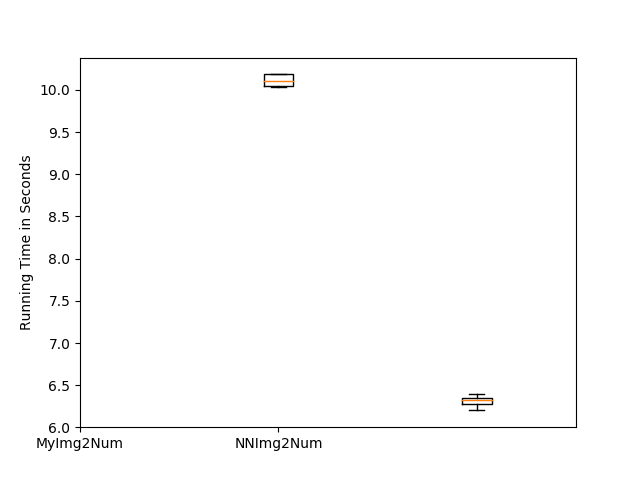
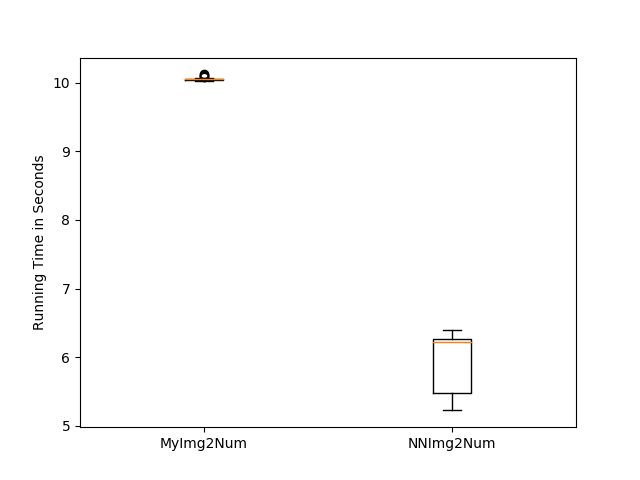
update

diff --git a/hwk4/nn_img2num.py b/hwk4/nn_img2num.py
@@ -6,11 +6,12 @@ from torchvision import datasets, transforms
 from time import time
 from torch.autograd import Variable
 import matplotlib.pyplot as plt
-
+plt.ioff()
 class NNImg2Num:
+
     def __init__(self):
         self.train_batch_size = 60
-        self.epoch = 5
+        self.epoch = 30
         self.labels = 10
         self.rate = 30 
         self.input_size = 28 * 28
@@ -41,7 +42,13 @@ class NNImg2Num:
         self.optimizer = torch.optim.SGD(self.model.parameters(), lr=self.rate)
         self.loss_function = nn.MSELoss()
     
-    def train(self):
+    def forward(self, img):
+        
+        output = self.model.forward(img.view(1, self.input_size))
+        _, result = torch.max(output, 1)
+        return result
+
+    def train(self, plot=False):
         print('training')
         def onehot_training(target, batch_size):
                 output = torch.zeros(batch_size, self.labels)
@@ -101,7 +108,10 @@ class NNImg2Num:
             train_loss_list.append(train_loss)
             test_loss_list.append(test_loss)
             speed.append(e-s)
+        if plot == True:
+            return speed, train_loss_list, test_loss_list, acc_list
 
+'''
         plt.plot(range(self.epoch), acc_list, 'r|--', label='Accuracy')
         plt.plot(range(self.epoch), train_loss_list, 'b*--', label='Training Loss')
         plt.plot(range(self.epoch), test_loss_list, 'yo--', label='Test Loss')
@@ -110,9 +120,5 @@ class NNImg2Num:
         plt.title('Library Neural Network Evaluation')
         plt.savefig('nn_compare.png')
         plt.clf()
-        return speed
-    def forward(self, img):
-        
-        output = self.model.forward(img.view(1, self.input_size))
-        _, result = torch.max(output, 1)
-        return result
+    '''
+    

diff --git a/hwk4/my_img2num.py b/hwk4/my_img2num.py
@@ -4,11 +4,11 @@ import torch
 from torchvision import datasets, transforms
 from time import time
 import matplotlib.pyplot as plt
-
+plt.ioff()
 class MyImg2Num:
     def __init__(self):
         self.train_batch_size = 60
-        self.epoch = 5
+        self.epoch = 30
         self.labels = 10
         self.rate = 0.1 
         self.input_size = 28 * 28
@@ -31,7 +31,7 @@ class MyImg2Num:
         # output labels are 10 [0 - 9]
         self.nn = NeuralNetwork([self.input_size, 512, 256, 64, self.labels])
 
-    def train(self):
+    def train(self, plot=False):
         print('training')
         def onehot_training(target, batch_size):
                 output = torch.zeros(batch_size, self.labels)
@@ -87,6 +87,16 @@ class MyImg2Num:
             train_loss_list.append(train_loss)
             test_loss_list.append(test_loss)
             speed.append(e-s)
+        if plot:
+            return speed, train_loss_list, test_loss_list, acc_list
+        
+
+    def forward(self, img):
+        
+        output = self.nn.forward(img.view(1, self.input_size))
+        _, result = torch.max(output, 1)
+        return result      
+        '''
         plt.plot(range(self.epoch), acc_list, 'r|--', label='Accuracy')
         plt.plot(range(self.epoch), train_loss_list, 'b*--', label='Training Loss')
         plt.plot(range(self.epoch), test_loss_list, 'yo--', label='Test Loss')
@@ -95,11 +105,5 @@ class MyImg2Num:
         plt.title('My Neural Network Evaluation')
         plt.savefig('my_compare.png')
         plt.clf()
-        return speed
+        '''
         
-
-    def forward(self, img):
-        
-        output = self.nn.forward(img.view(1, self.input_size))
-        _, result = torch.max(output, 1)
-        return result

diff --git a/hwk4/test.py b/hwk4/test.py
@@ -1,17 +1,35 @@
 from my_img2num import MyImg2Num
-
 import matplotlib.pyplot as plt
 from nn_img2num import NNImg2Num
+plt.ioff()
 print('running self nn')
 my_img_2num = MyImg2Num()
-my_time = my_img_2num.train()
+my_time,my_train_loss, my_test_loss, my_accuracy = my_img_2num.train(True)
 print(my_time)
 print('running library nn')
 nn_img = NNImg2Num()
-nn_time = nn_img.train()
+nn_time, nn_train_loss, nn_test_loss, nn_accuracy = nn_img.train(True)
 print(nn_time)
 data = [my_time, nn_time]
 plt.boxplot(data)
-plt.xticks(range(2), ['MyImg2Num', 'NNImg2Num'])
+plt.xticks(range(1, 3), ['MyImg2Num', 'NNImg2Num'])
 plt.ylabel('Running Time in Seconds')
 plt.savefig('efficiency.png')
+plt.clf()
+
+plt.plot(range(30), nn_accuracy, 'r*--', label='Accuracy of torch nn')
+plt.plot(range(30), my_accuracy, 'b|--', label='Accuracy of my nn')
+plt.xlabel('Epoch')
+plt.ylabel('Accuracy')
+plt.savefig('accuracy.png')
+plt.clf()
+
+plt.plot(range(30), my_train_loss, 'r*--', label='Training loss of my nn')
+plt.plot(range(30), nn_train_loss, 'b|--', label='Training loss of torch nn')
+
+plt.plot(range(30), my_test_loss, 'ro-.', label='Testing loss of my nn')
+plt.plot(range(30), nn_test_loss, 'n+-.', label='Testing loss of torch nn')
+plt.xlabel('Epoch')
+plt.ylabel('Loss')
+plt.savefig('loss.png')
+plt.clf()
